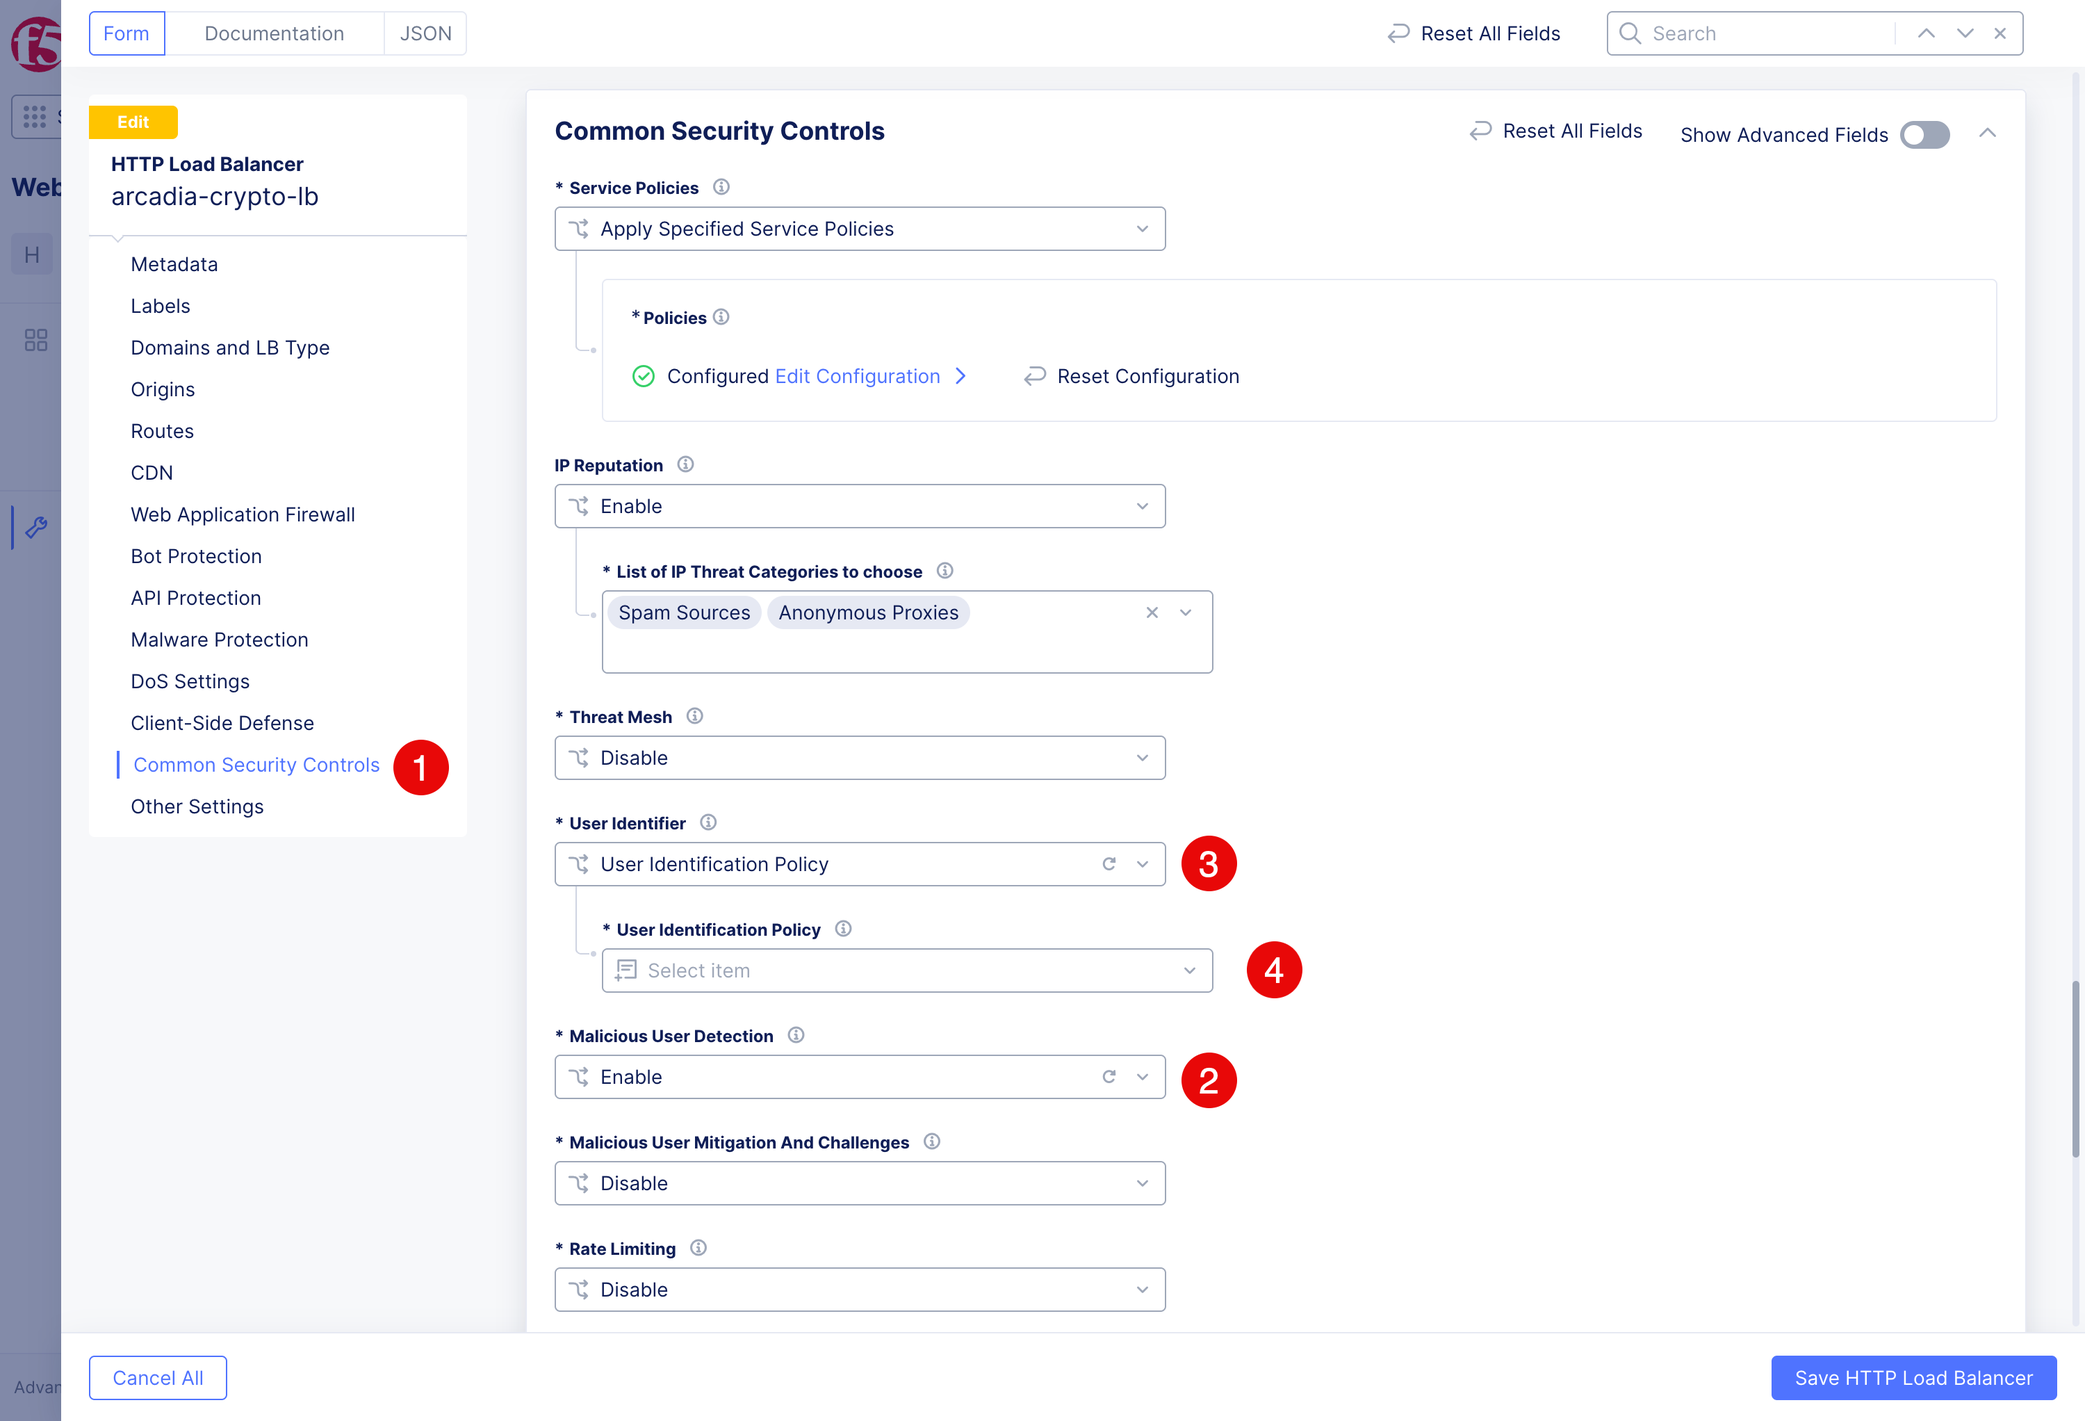
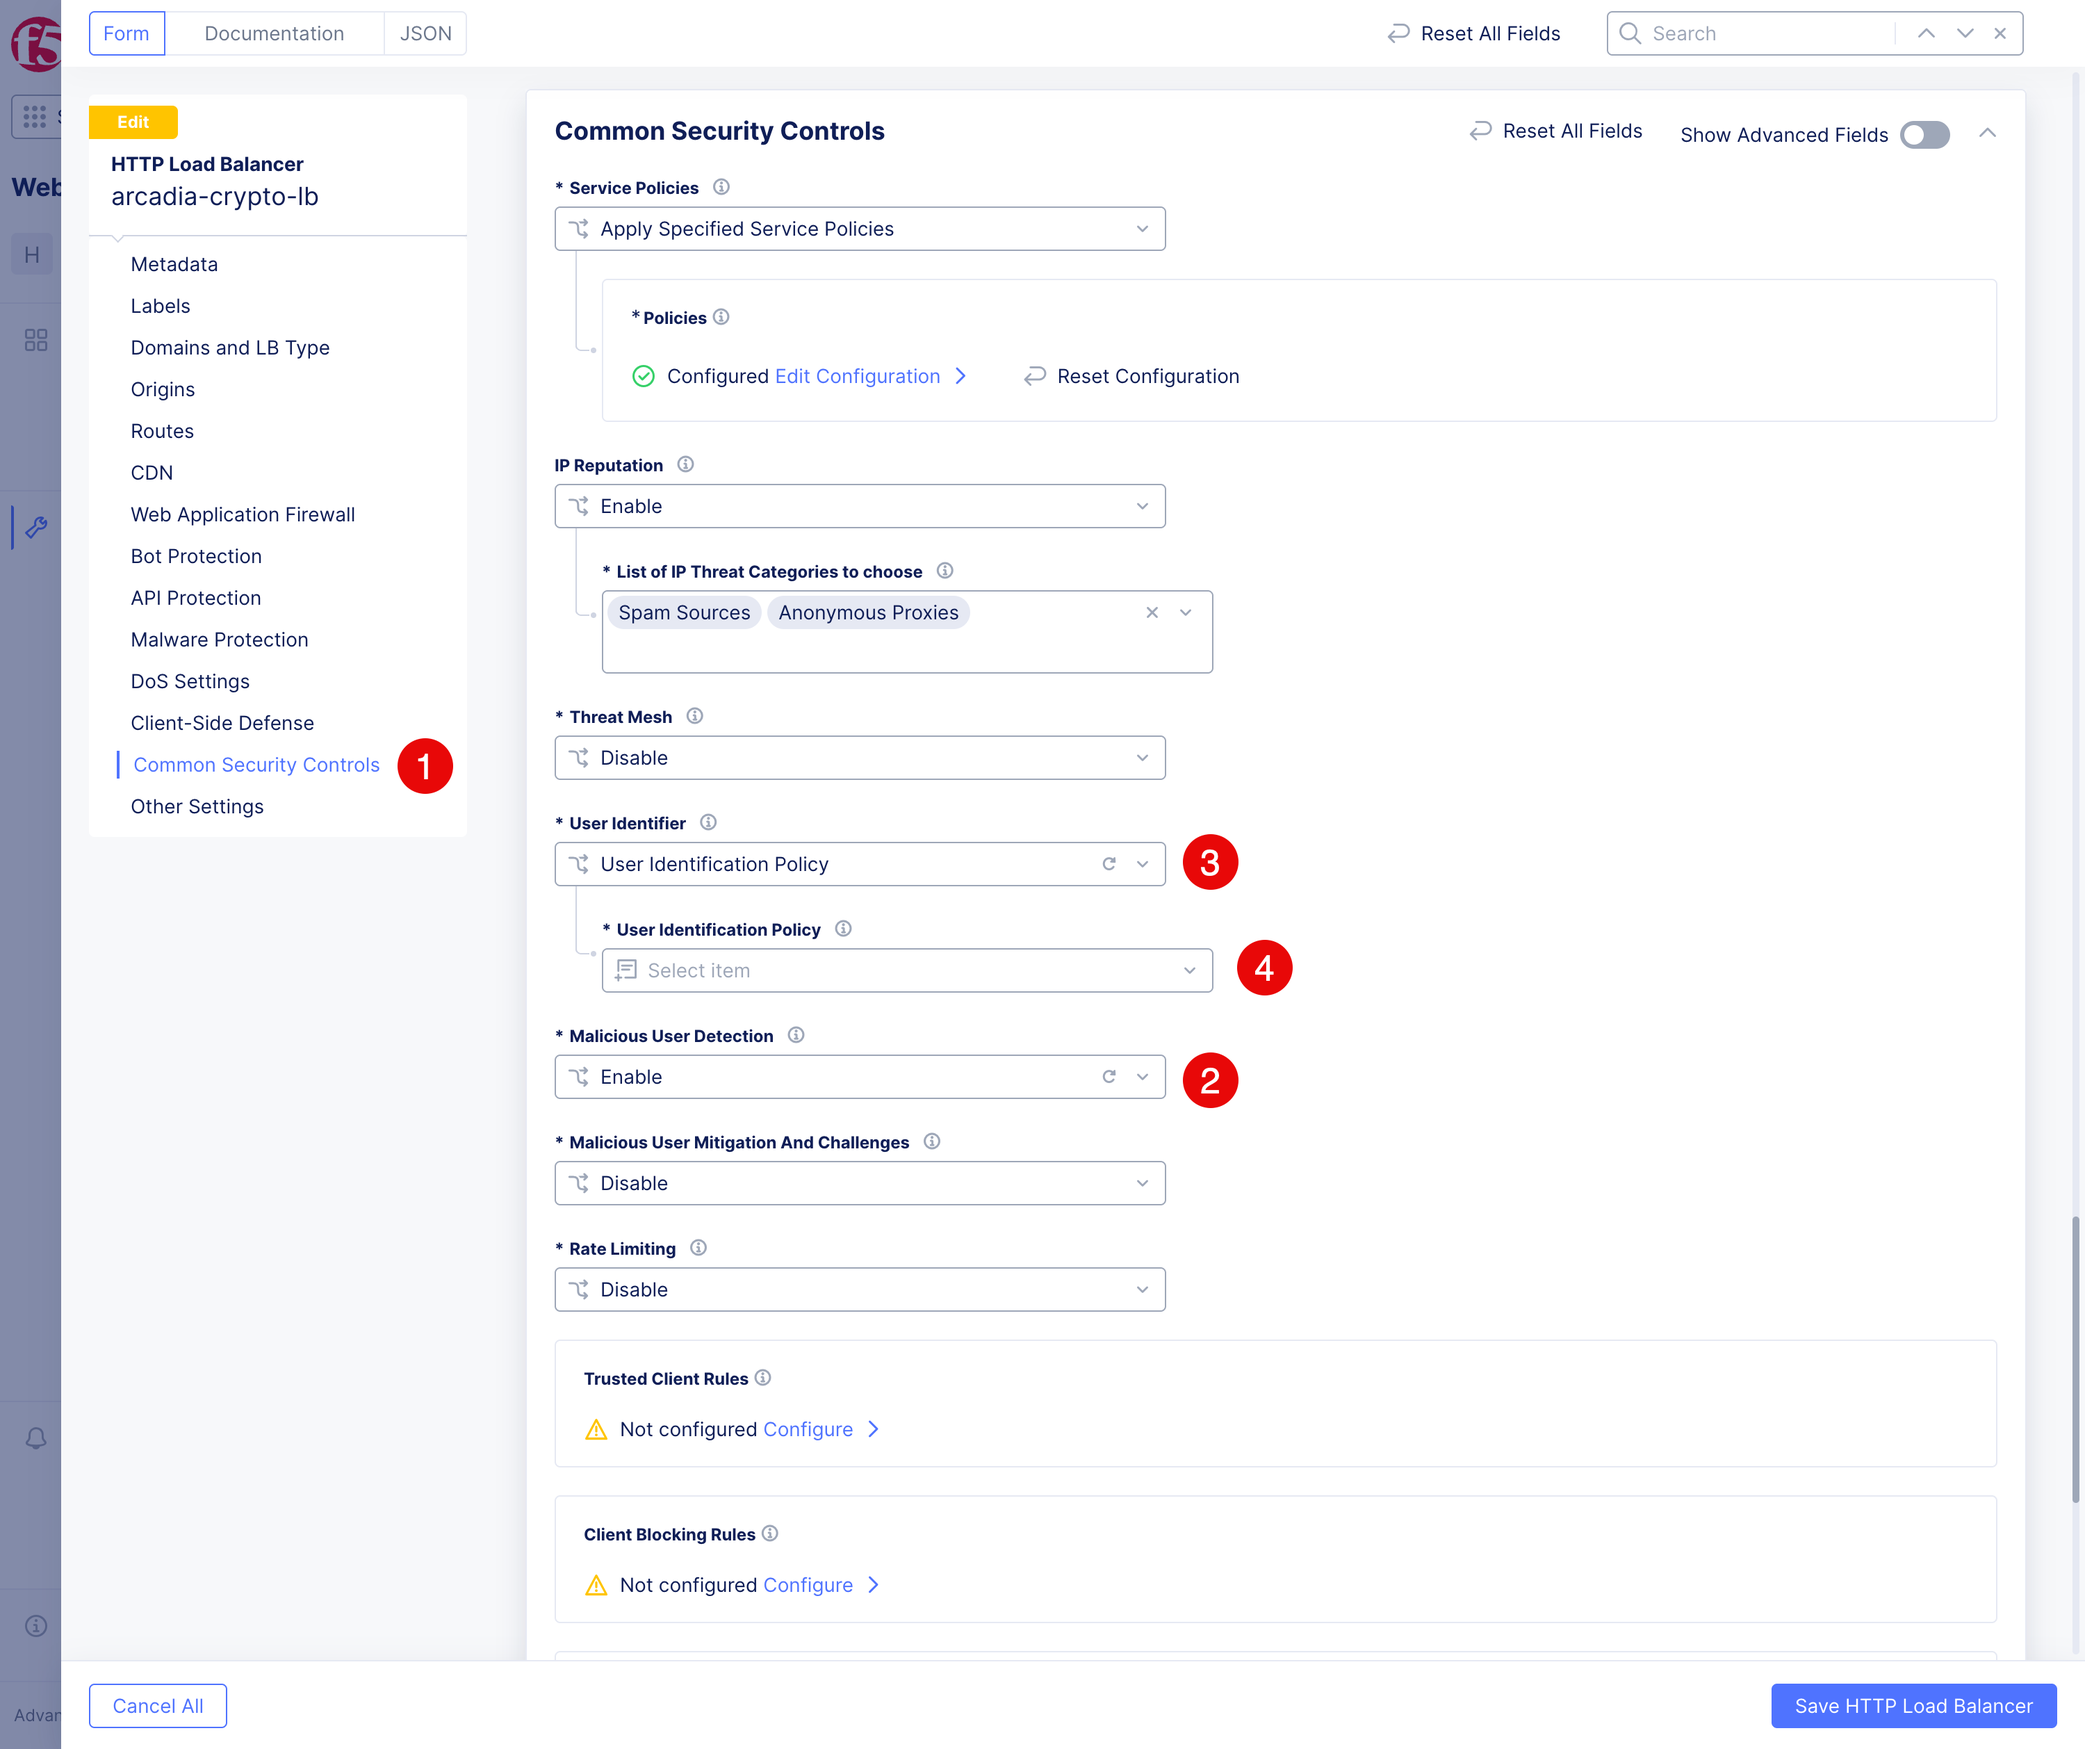
docs: expand malicious user detection labs

diff --git a/class1/module5/lab1/lab1.rst b/class1/module5/lab1/lab1.rst
@@ -1,8 +1,8 @@
 Configure Malicious User Detection
 #######################################
 
-Enable Malicious User Detection on the HTTP Load Balancer
-=========================================================
+Open the HTTP Load Balancer Configuration
+==========================================
 
 1. Navigate to **Web App & API Protection > Load Balancers (1) > HTTP Load Balancers (2)**. In the row for the created load balancer, click the **Actions** menu (3).
 
@@ -19,29 +19,35 @@ Enable Malicious User Detection on the HTTP Load Balancer
    .. image:: ../pictures/lb-list-edit.png
       :align: center
 
-4. Select **Common Security Controls (1)** and configure the highlighted fields as follows:
+Enable Malicious User Detection and Mitigation
+==============================================
+
+4. Select **Common Security Controls (1)**. Configure the fields in the order shown in the interface:
 
    .. table::
       :widths: auto
 
-      ==================================  ==========================
-      Object                              Value
-      ==================================  ==========================
-      **Malicious User Detection (2)**    Enable
-      **User Identifier (3)**             User Identification Policy
-      ==================================  ==========================
+      =================================================  ==========================
+      Object                                             Value
+      =================================================  ==========================
+      **Malicious User Detection (2)**                   Enable      
+      **User Identifier (3)**                            User Identification Policy
+      =================================================  ==========================
 
-   Open the **User Identification Policy (4)** selector to choose a policy.
+   Open the **User Identification Policy (4)** selector.
 
    .. image:: ../pictures/lb-malicious-users-details-1.png
       :align: center
 
-5. Open **User Identification Policy** and click **Add Item (1)** to create one.
+Create the User Identification Policy
+=====================================
+
+5. In opened **User Identification Policy** click **Add Item (1)** to create one.
 
    .. image:: ../pictures/lb-malicious-users-details-2.png
       :align: center
 
-6. Configure the new user identification policy with the following value, and then click **Configure (2)** under **User Identification Rules**.
+6. Set **Name (1)** to ``arcadia-crypto-user-identification``, and then click **Configure (2)**.
 
    .. table::
       :widths: auto
@@ -55,12 +61,15 @@ Enable Malicious User Detection on the HTTP Load Balancer
    .. image:: ../pictures/lb-malicious-users-details-3.png
       :align: center
 
+Configure the User Identification Rules
+=======================================
+
 7. The **User Identification Rules** list is initially empty. Click **Add Item (1)**.
 
    .. image:: ../pictures/lb-malicious-users-details-4.png
       :align: center
 
-8. Configure the user identification rule with the following value, and then click **Apply (2)**.
+8. Select ``Client IP Address`` for **Identifier Type (1)**, and then click **Apply (2)**.
 
    .. table::
       :widths: auto
@@ -74,17 +83,96 @@ Enable Malicious User Detection on the HTTP Load Balancer
    .. image:: ../pictures/lb-malicious-users-details-5.png
       :align: center
 
-9. Verify that the rules list contains one rule with **Identifier Type** set to **IP Address**, and then click **Apply (1)**.
+9. Click **Add Item** to configure another identification rule.
 
    .. image:: ../pictures/lb-malicious-users-details-6.png
       :align: center
 
-10. Verify that **User Identification Rules** is shown as **Configured**, and then click **Add User Identification (1)** to create the policy.
+10. Configure the second user identification rule with the following values, and then click **Apply**.
+
+    .. table::
+       :widths: auto
+
+       =========================  =================
+       Object                     Value
+       =========================  =================
+       **Identifier Type (1)**    HTTP Header Name
+       **HTTP Header Name (2)**   Authorization
+       =========================  =================
+
+    .. image:: ../pictures/lb-malicious-users-details-6a.png
+       :align: center
+
+11. Verify that the rules list contains the two identification rules in the following order, and then click **Apply**:
+
+    * **HTTP Header** with the key **Authorization**
+    * **IP Address**
+
+    .. image:: ../pictures/lb-malicious-users-details-6b.png
+       :align: center
+
+12. Click **Add User Identification (1)** to create the policy.
 
     .. image:: ../pictures/lb-malicious-users-details-7.png
        :align: center
 
-11. Back under **Common Security Controls** and click **Save HTTP Load Balancer (1)**.
+Create a Custom Mitigation Policy Without CAPTCHA
+=================================================
 
-    .. image:: ../pictures/lb-malicious-users-details-8.png
+13. Back under **Common Security Controls**. Set **Malicious User Mitigation Settings (1)** to **Custom (2)**, and then open the **Custom (3)** policy selector.
+
+   .. image:: ../pictures/lb-malicious-users-details-8.png
+       :align: center
+
+14. In the **Custom** policy selector, click **Add Item (1)** to create a malicious user mitigation policy.
+
+    .. image:: ../pictures/lb-malicious-users-details-9.png
+       :align: center
+
+15. Set **Name (1)** to ``block-no-captcha``, and then click **Add Item (2)** under **Rules**.
+
+    .. table::
+       :widths: auto
+
+       ============  ==================
+       Object        Value
+       ============  ==================
+       **Name (1)**  block-no-captcha
+       ============  ==================
+
+    .. image:: ../pictures/lb-malicious-users-details-10.png
+       :align: center
+
+16. Configure the mitigation rule, and then click **Apply (3)**.
+
+    .. table::
+       :widths: auto
+
+       ==================     =================
+       Object                 Value
+       ==================     =================
+       **Threat Level (1)**   Low
+       **Action (2)**         Block Temporarily
+       ==================     =================
+
+    .. image:: ../pictures/lb-malicious-users-details-11.png
+       :align: center
+
+17. Verify that the rules list contains the **Low** threat-level rule with the **Block Temporarily** mitigation action. Click **Add Malicious User Mitigation (1)** to create the policy.
+
+    .. image:: ../pictures/lb-malicious-users-details-12.png
+       :align: center
+
+Apply and Save the Configuration
+================================
+
+18. Back under **Common Security Controls**, verify the following settings, and then click **Save HTTP Load Balancer**:
+
+    * **User Identification Policy** is set to ``arcadia-crypto-user-identification``.
+    * **Malicious User Detection** is set to **Enable**.
+    * **Malicious User Mitigation And Challenges** is set to **Enable**.
+    * **Malicious User Mitigation Settings** is set to **Custom**.
+    * **Custom** is set to ``block-no-captcha``.
+
+    .. image:: ../pictures/lb-malicious-users-details-13.png
        :align: center

diff --git a/class1/module5/lab2/lab2.rst b/class1/module5/lab2/lab2.rst
@@ -1,9 +1,15 @@
 Test Malicious User Detection
 #############################
 
+Generate Malicious Traffic
+==========================
+
 In order to test we will behave as a bad actor.
 
-1. Browse to the app :ext_link:`http://arcadia-re-$$makeId$$.workshop.emea.f5se.com/` and login
+.. danger::
+   Generate this malicious traffic only against the website assigned to you for this lab. Verify the target URL before running the script, and do not use it to attack or test any other website.
+
+1. Browse to the app :ext_link:`http://$$namespace$$.spec-core.f5se.com/` and login
 
    .. table::
       :widths: auto
@@ -11,28 +17,26 @@ In order to test we will behave as a bad actor.
       ==========================================    ========================================================================================
       Object                                        Value
       ==========================================    ========================================================================================
-      **Username**                                  satoshi@bitcoin.com
-   
+      **Username**                                  satoshi@bitcoin.com   
       **Password**                                  bitcoin
       ==========================================    ========================================================================================
 
 
-2. Now we have access to authenticated APIs which we now can try and break. Copy and paste the bellow Javascript code into your brower console.
-   The code will try and attack the internal APIs of the application that can only be accessed after authentication.
+2. Now we have access to authenticated APIs that we can try to break. Copy and paste the JavaScript code below into your browser console.
+   The code attacks internal APIs that can only be accessed after authentication. It logs the HTTP status of each request and continues until you reload the page.
 
    .. code::
-
         // A helper function to delay execution
         function sleep(ms) {
             return new Promise(resolve => setTimeout(resolve, ms));
         }
 
         async function runRequests() {
-            const requests = [
+            const requests = [                
                 {url: '/v1/stockt', method: 'POST', data: '{"symbol":"<script","transactionType":"buy","amount":1}' },
                 {url: '/v1/stockt', method: 'POST', data: '{"symbol":"ltc","transactionType":"SELECT ItemName FROM Items WHERE ItemNumber = 999; DROP TABLE USERS ","amount":1}' },
                 {url: '/v1/stockt', method: 'POST', data: '{"symbol":"/etc/passwd","transactionType":"buy","amount":1}' },
-                {url: '/v1/fuzzingattack', method: 'GET'},  
+                {url: '/v1/fuzzingattack', method: 'GET'},
             ];
 
             while(true) { // infinite loop to start over when all requests have been processed
@@ -50,26 +54,35 @@ In order to test we will behave as a bad actor.
                         requestOptions.body = item.data;
                     }
 
-                    // Fetch returns a Promise that resolves to the Response to that request, whether it is successful or not
-                    await fetch(location.origin + item.url, requestOptions);
+                    try {
+                        const response = await fetch(location.origin + item.url, requestOptions);
+                        console.log(`${item.method} ${item.url}: HTTP ${response.status}`);
+                    } catch (error) {
+                        console.error(`${item.method} ${item.url} failed:`, error);
+                    }
 
-                    await sleep(1000); // Wait for 3 seconds before the next request
+                    await sleep(1000); // Wait for 1 second before the next request
                 }
             }
         }
 
-        runRequests();
+        console.log('Starting requests. Reload the page to stop.');
+        void runRequests();
 
-3. In the browser network tab follow the request and you will observe that after some short time F5 XC will start blocking the user by returning a HTTP 403
+3. Monitor the browser console until the malicious ``POST`` requests to ``/v1/stockt`` return **HTTP 403 Forbidden**. This confirms that the requests are being blocked.
 
-   We will be able to track this user in the F5XC console to **Web App & API Protection** -> **Dashboards** -> **Security** -> Click on the **arcadia-re-lb** Load Balancer -> **Malicious Users** -> **Refresh**
+   .. image:: ../pictures/block-403.png
+      :align: center
 
-4. Hacker understands that he can't attack the internal APIs and decides to move to public endpoints. We will simulate this by browsing to the following URLs :ext_link:`http://arcadia-re-$$makeId$$.workshop.emea.f5se.com/?a=/etc/passwd`  and holding **F5 button** on the keyboard to generate multiple requests
+Review the Detected Malicious Activity
+======================================
 
-5. Since the user has not logged in we will block it based on IP address go to the **Malicious Users** dashboard like in step 3 and you will be able to follow and indetify these attacks
+1. In the F5 Distributed Cloud Console, navigate to **Web App & API Protection > Overview > Security**. On the **Dashboard** tab, verify that security events are displayed and that ``/v1/stockt`` and ``/v1/fuzzingattack`` appear under **Top Attacked Paths**.
 
-6. Your IP address is now blocked temporarily. Add it to the allow list before continuing.
+   .. image:: ../pictures/security-dashboard.png
+      :align: center
 
-   Go to the **Malicious Users** dashboard and click on the IP identifier ( it should look similar to this **IP-156.33.44.55** ) -> Click **Add To Allow List** -> Apply -> Apply -> Save and Exit
+2. Click the **Malicious Users (2)** tab and review the **Attacked Delivery Resources** map for the detected malicious-user activity.
 
-7. Close all previous application tabs and open a new one, when browsing :ext_link:`http://arcadia-re-$$makeId$$.workshop.emea.f5se.com/` the app will be fine.
+   .. image:: ../pictures/security-malicious-users-dashboard.png
+      :align: center
